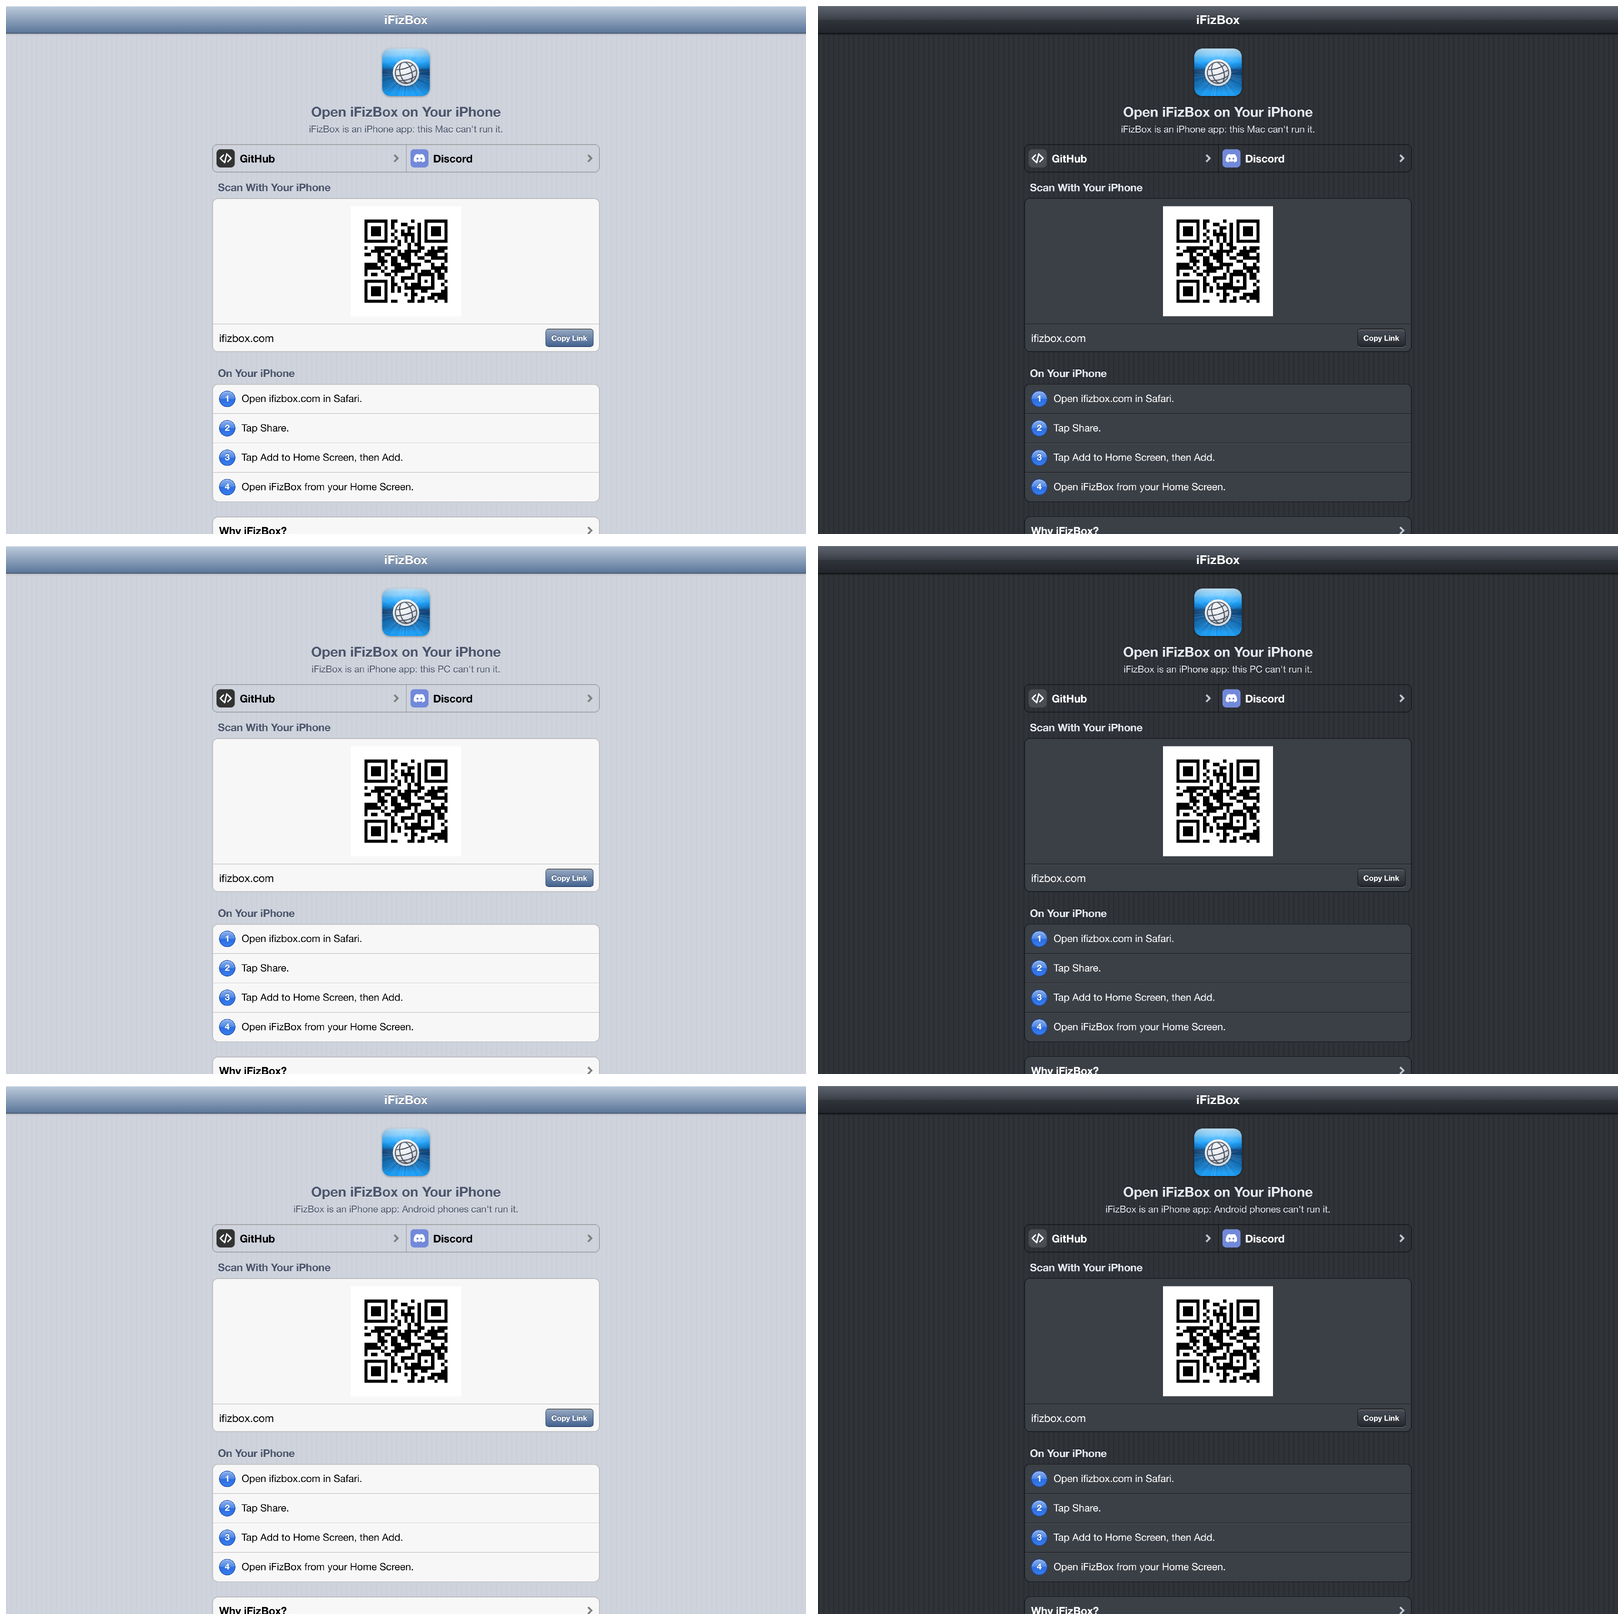
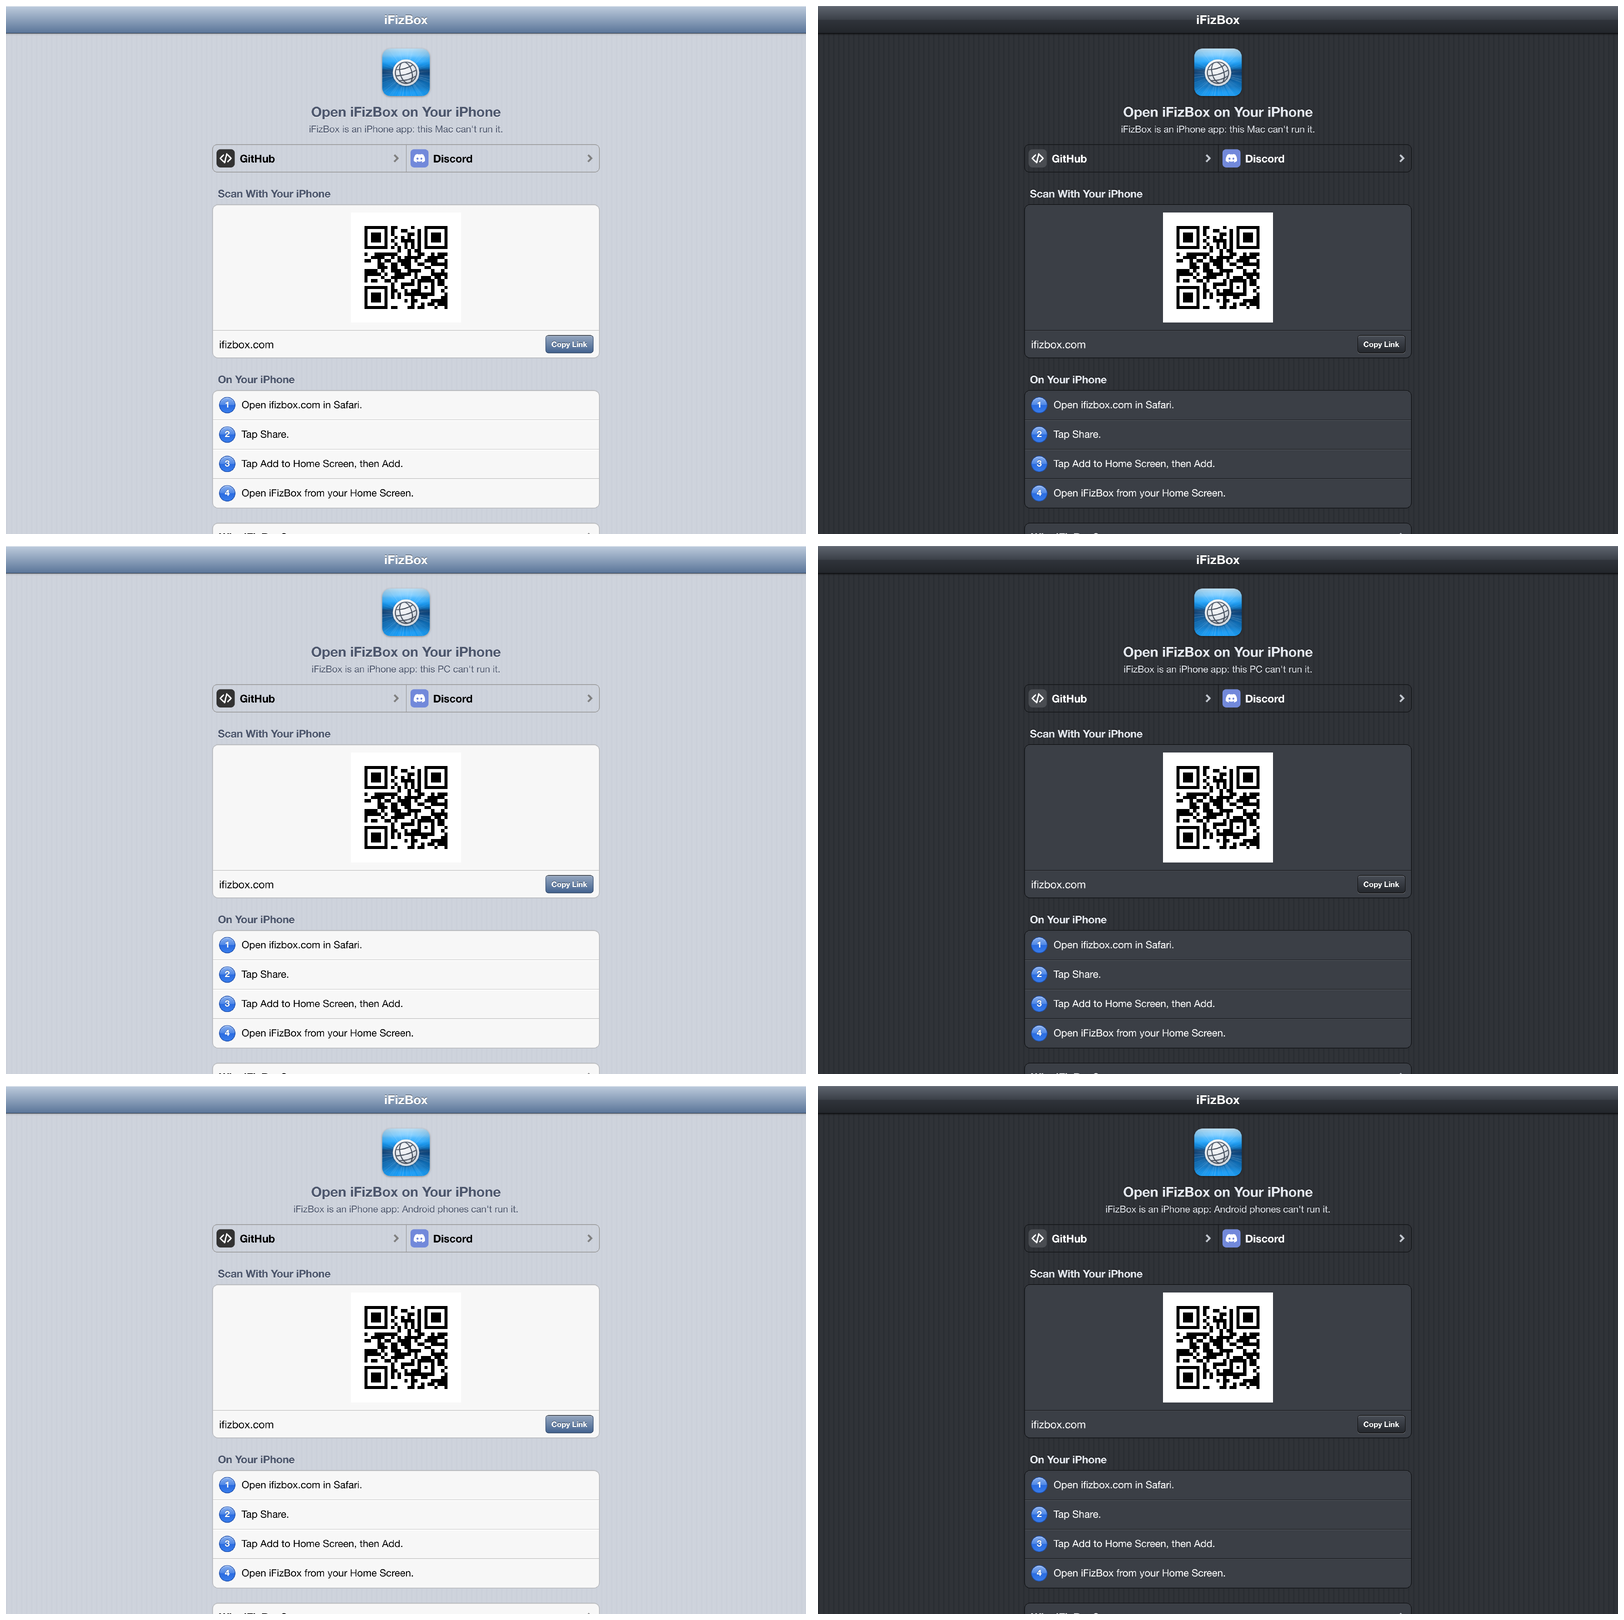
B384 wip: spacing, journal

diff --git a/web/app/notiphone.css b/web/app/notiphone.css
@@ -13,8 +13,9 @@
 .notiphone-icon { display: block; width: 76px; height: 76px; margin: 0 auto 12px; }
 .notiphone-title { margin: 0; }
 .notiphone-why { margin: 6px 0 0; text-wrap: balance; }
-/* Home's GitHub | Discord pair (home.css), as far above the next header as a table is */
-.notiphone-links { margin-bottom: 13px; }
+/* Home's GitHub | Discord pair (home.css), as far above the next header as a table is (padding: a margin would collapse
+   into the header's) */
+.notiphone-links { padding-bottom: 13px; }
 .notiphone .group:first-of-type > .group-header { margin-top: 0; }
 
 /* The code: white cell, the code centred (core/qr.js draws its own white quiet zone) */

diff --git a/journal/2026-11-23-b384-notiphone-community-pair/notes.md b/journal/2026-11-23-b384-notiphone-community-pair/notes.md
@@ -1,0 +1,25 @@
+# B384: GitHub | Discord on the Not-an-iPhone page
+
+## What
+- `web/app/screens/notiphone.js`: new `communityPair()` draws Home's pair (the GitHub | Discord tiles) between the
+  hero and "Scan With Your iPhone". Same classes and markup as `home.js` `tile()` / `tileRow("pair")`.
+  `home.js` is not imported because this page draws before the app starts, so the markup is repeated.
+- The wrapper carries class `home`, because `home.css` and the eras set the tile tokens (`--tile-edge`,
+  `--tile-radius`, …) on `.home`. `home.css` is a static `<link>` in `index.html` before `notiphone.css`,
+  so it is loaded by the time this page draws.
+- `web/app/core/appoffer.js`: `DISCORD_URL` moved here from `home.js`, beside `REPO_URL`. Both screens import it.
+- `web/app/notiphone.css`: 13px under the pair, so the next header sits as far from it as from a table
+  (the first shots showed it too tight).
+- Links open with `target="_blank"` and `rel="noopener"`; the page stays up.
+- Test: `notiphone.test.js` new test (place, href, target, rel, page still up after clicks).
+
+## Checks
+- `notiphone.test.js`: 4/4 pass.
+- `capture.mjs` (Chromium over CDP, as mac/pc/android × light/dark × 1280/390 px): no sideways scroll; the tiles
+  line up with the tables. Shots: `phone.png`, `desktop.png` in this folder.
+- Real mouse clicks on the Mac tile open `https://github.com/...` and the Discord invite in new tabs, with the
+  page still up.
+
+## Not verified
+- Real Mac, PC or Android browsers. Only Chromium with their user agents.
+- The iOS 7, 13 and 26 eras on this page. They were not shot, since the task asked for light and dark only.
